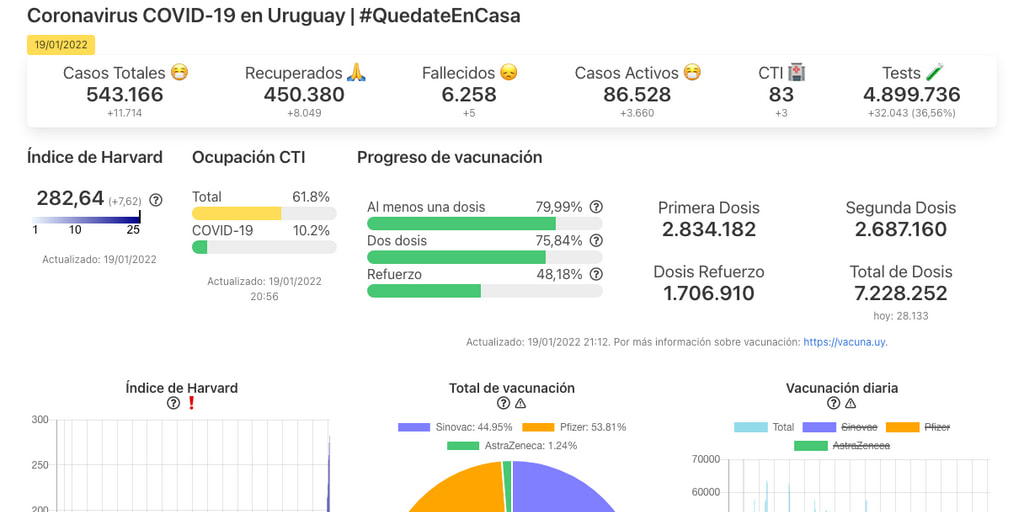
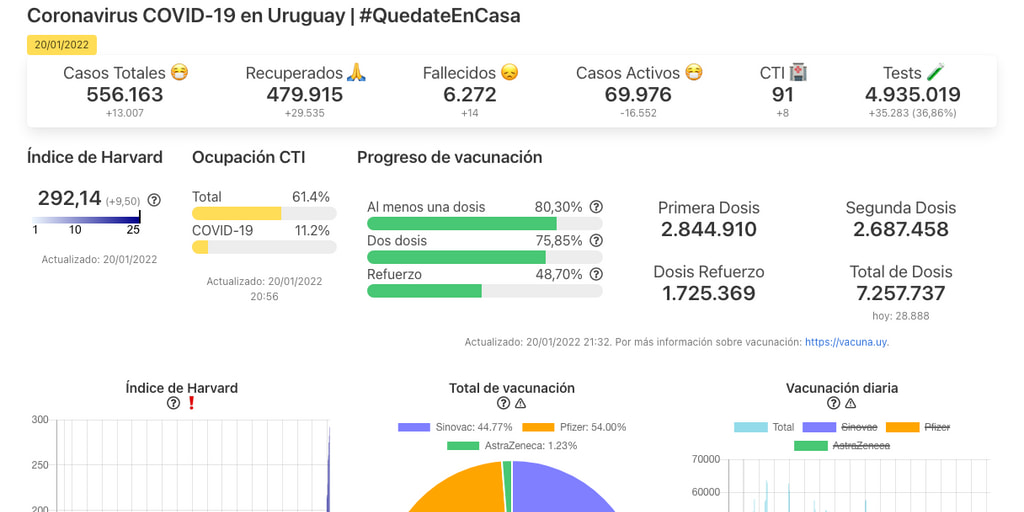
updated uruguay

diff --git a/test/test-data.js b/test/test-data.js
@@ -73,7 +73,7 @@ describe('Test data', function () {
                 if (today.date != "2020-08-18" && today.date != "2021-08-23" && today.date != "2021-08-24") { // Allow SINAE report error
                     assert.isAtLeast(hcCases, prevHCCases, "HC Cases: " + today.date);
                 }
-                if (today.date != "2020-05-20" && today.date != "2021-08-23" && today.date != "2021-08-24" && today.date != "2021-09-06") { // Allow SINAE report error
+                if (today.date != "2020-05-20" && today.date != "2021-08-23" && today.date != "2021-08-24" && today.date != "2021-09-06" && today.date != "2022-01-20") { // Allow SINAE report error
                     assert.isAtLeast(hcRecovered, prevHCRecovered, "HC Recovered: " + today.date);
                 }
                 assert.isAtLeast(hcDeaths, prevHCDeaths, "HC Deaths: " + today.date);
